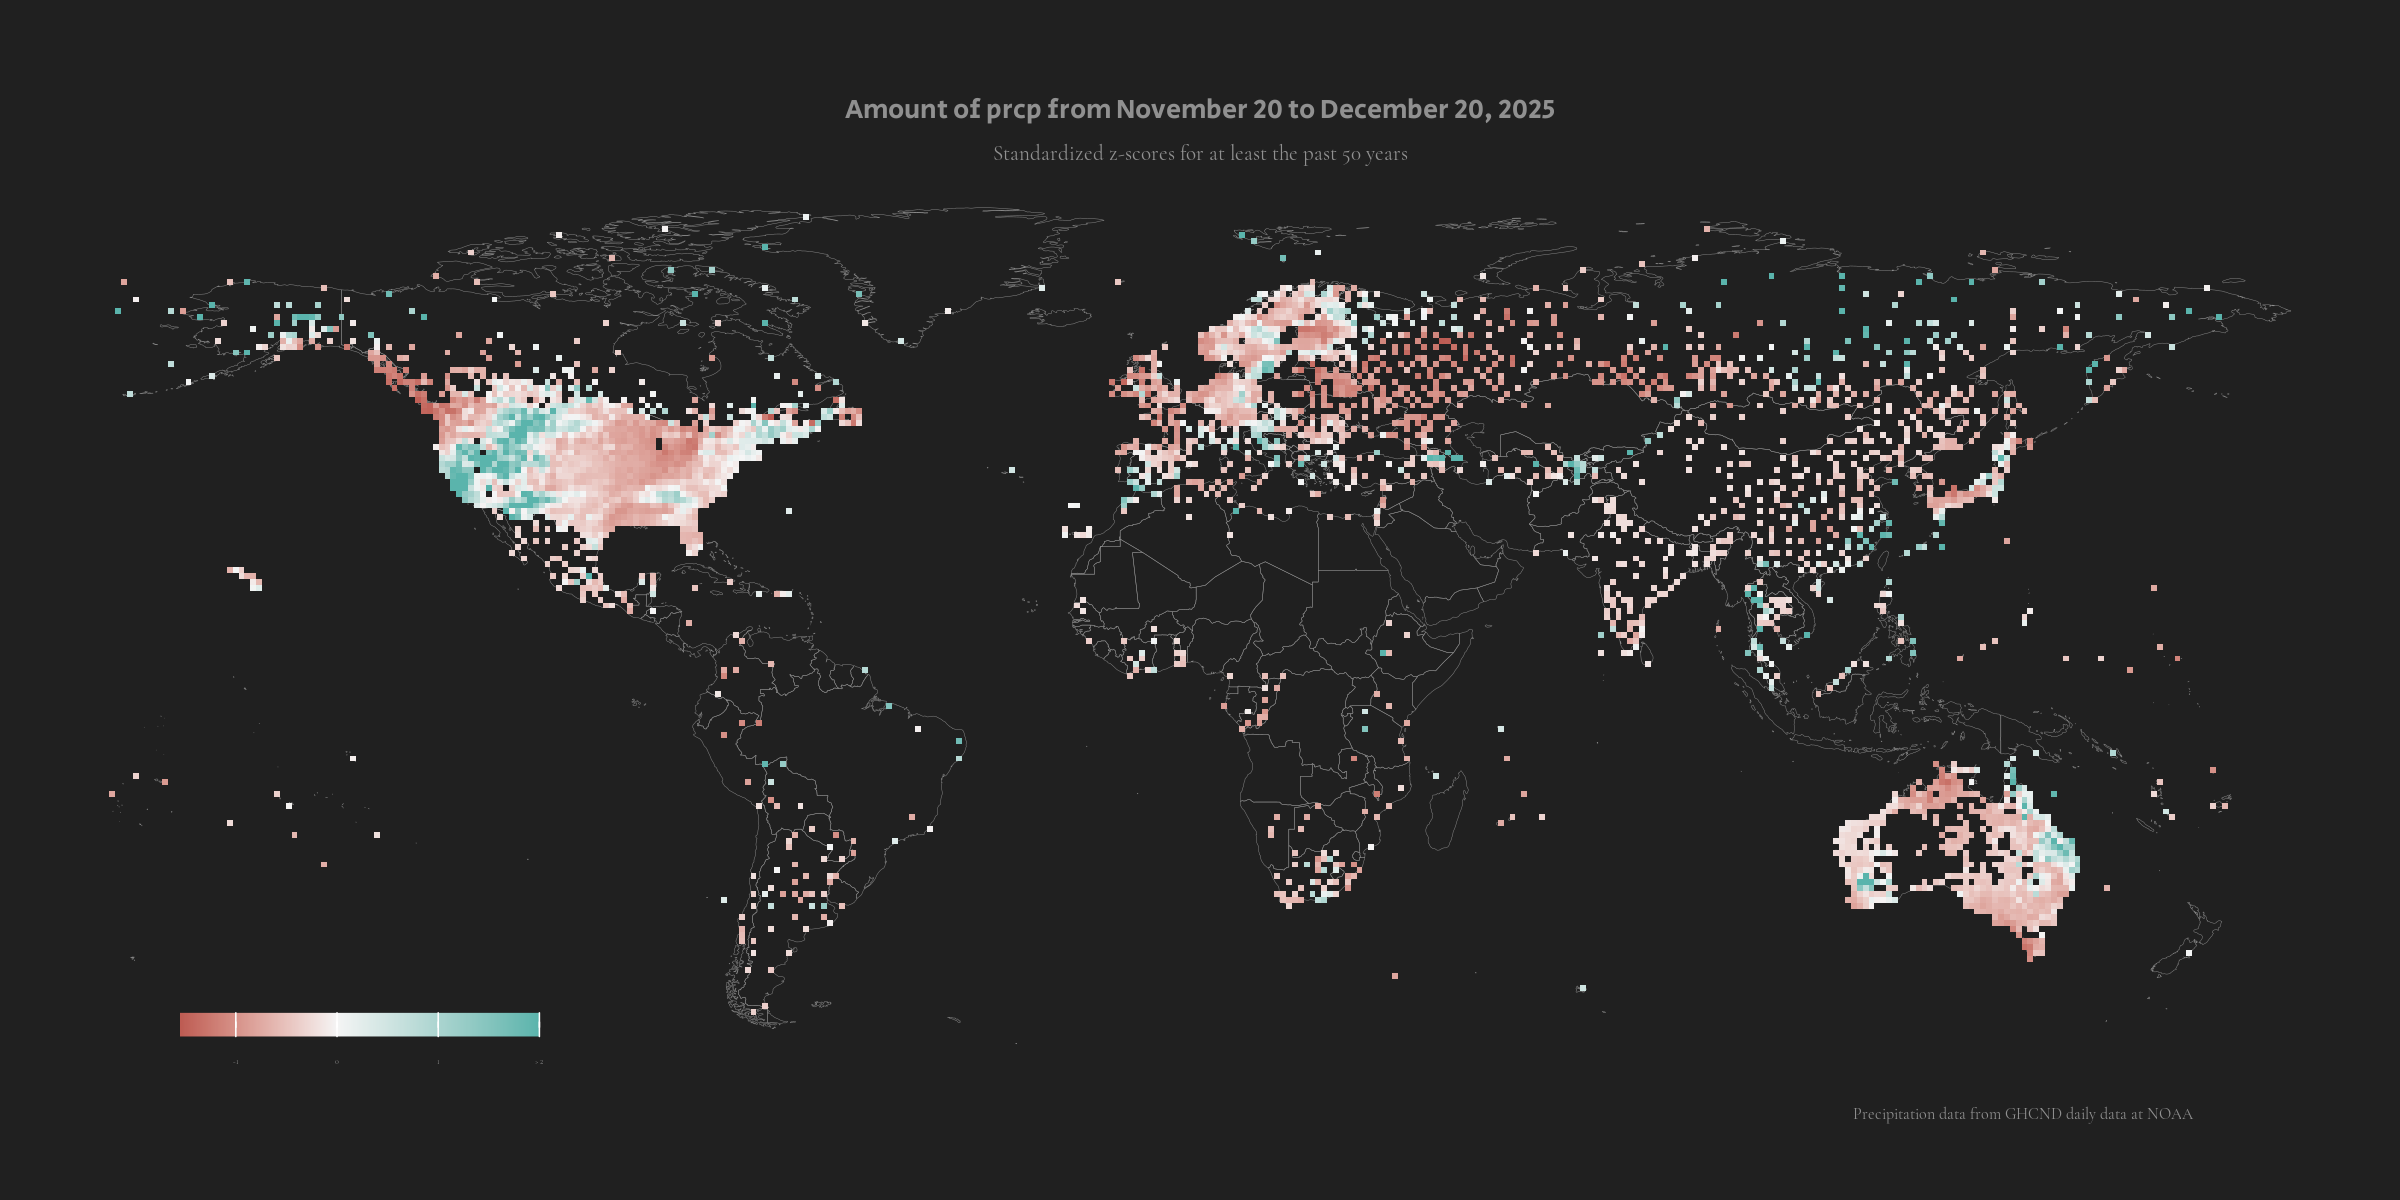
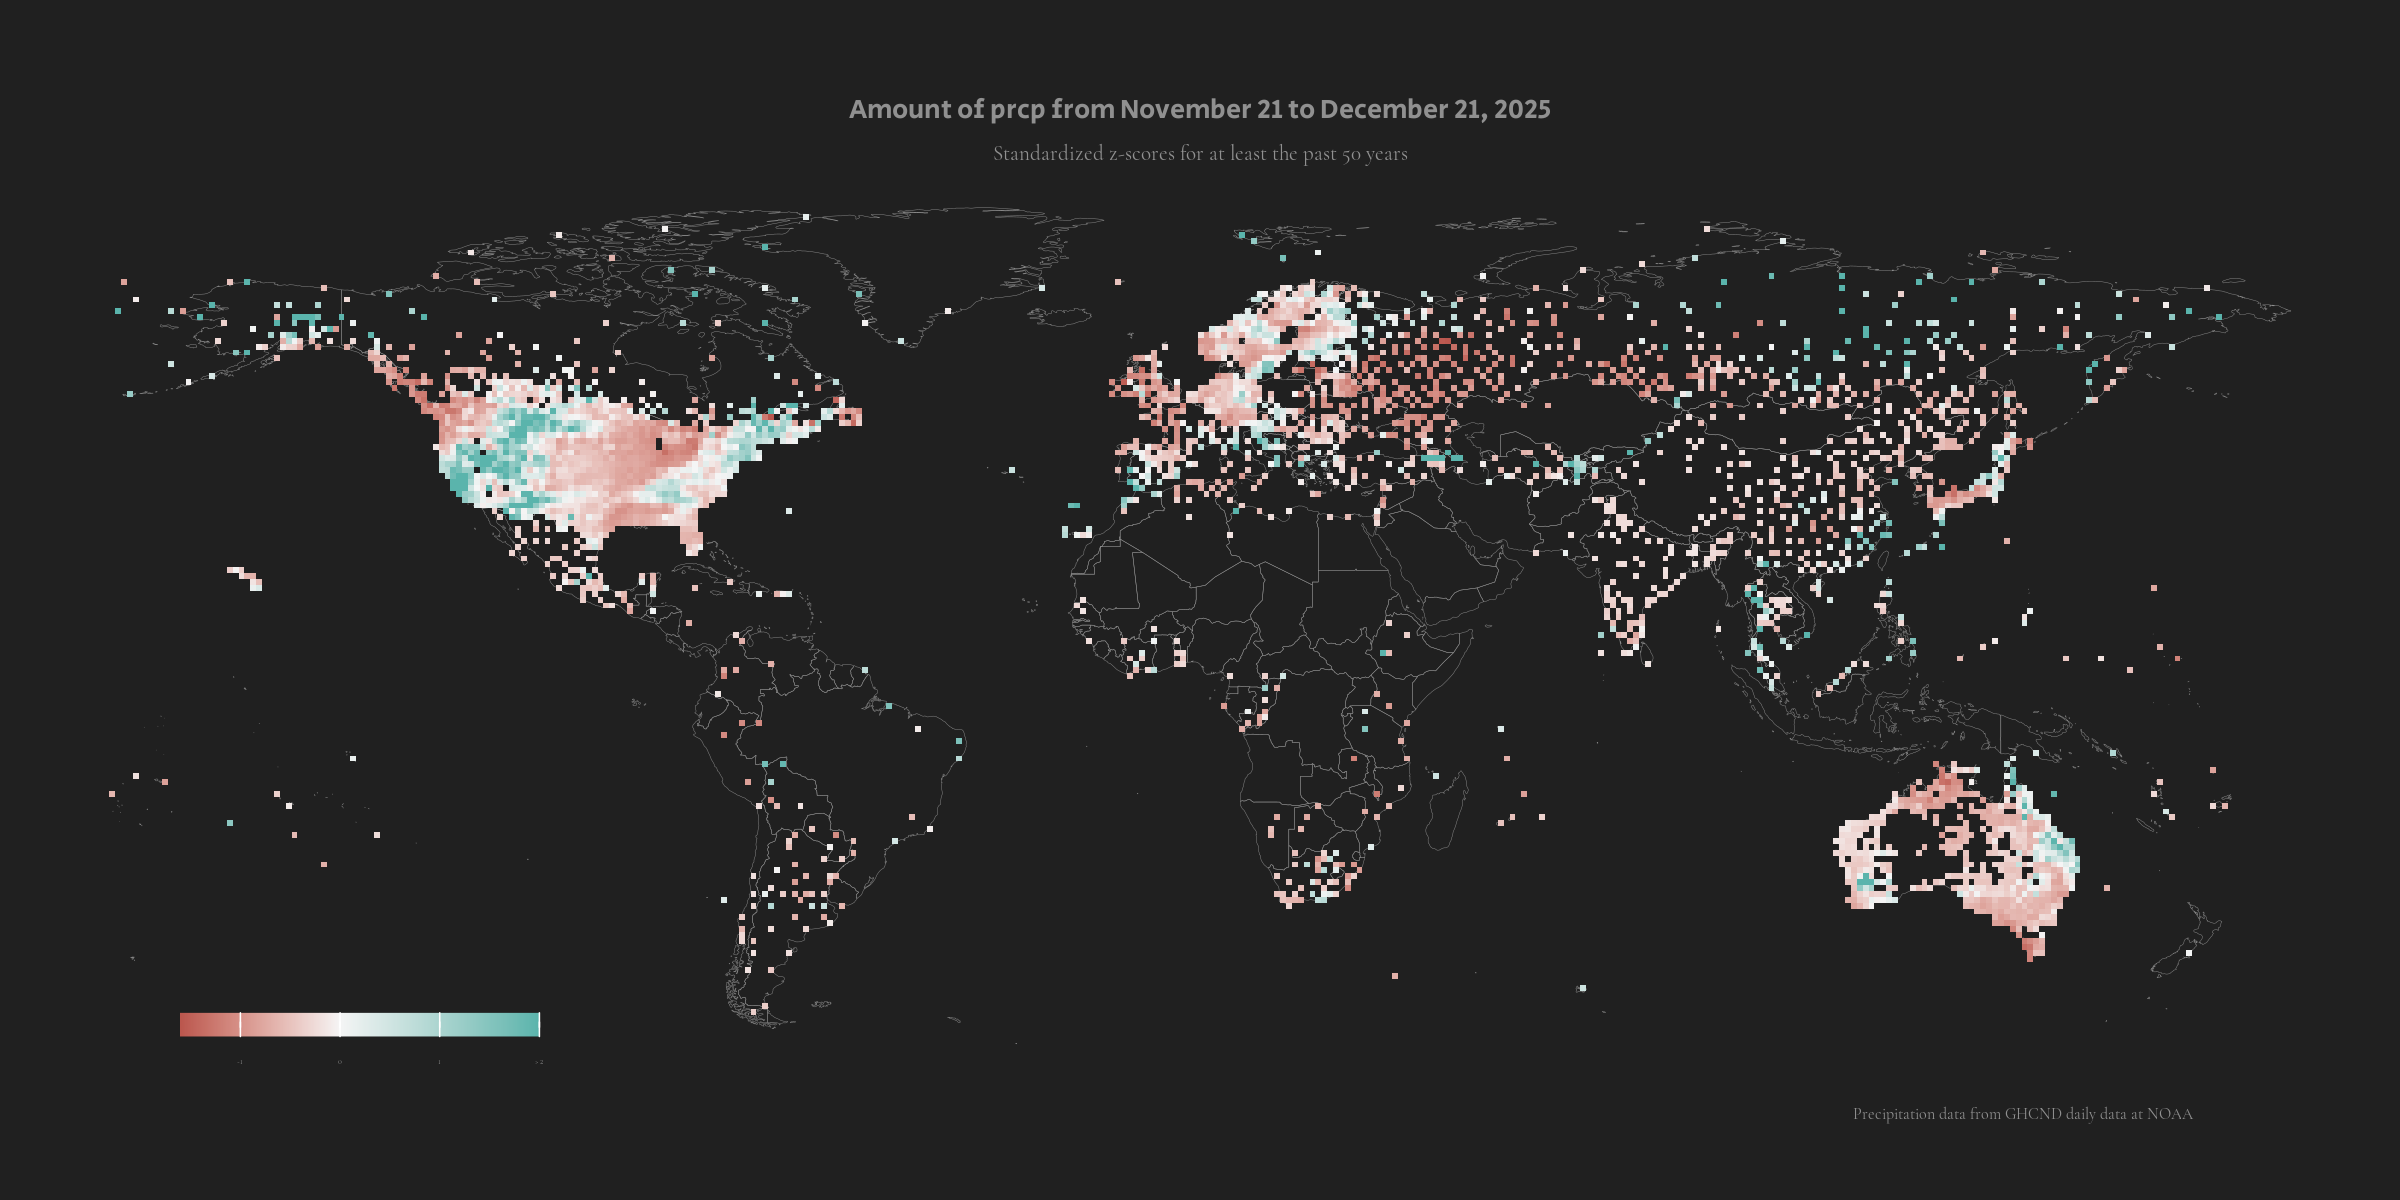
new day's rendering

diff --git a/index.html b/index.html
@@ -53,7 +53,7 @@ ul.task-list li input[type="checkbox"] {
 <div class="column-screen">
 <p><img src="visuals/heatmap_world_drought.png" class="img-fluid"></p>
 </div>
-<p>Last updated December 25, 2025.</p>
+<p>Last updated December 26, 2025.</p>
 <p>This <a href="https://esbenlykke.github.io/drought_index/">site</a> is part of a project to pratice reproducible research developed by <a href="mailto:%20eskovgaard@health.sdu.dk">Esben Lykke</a>.</p>
 
 </main>
